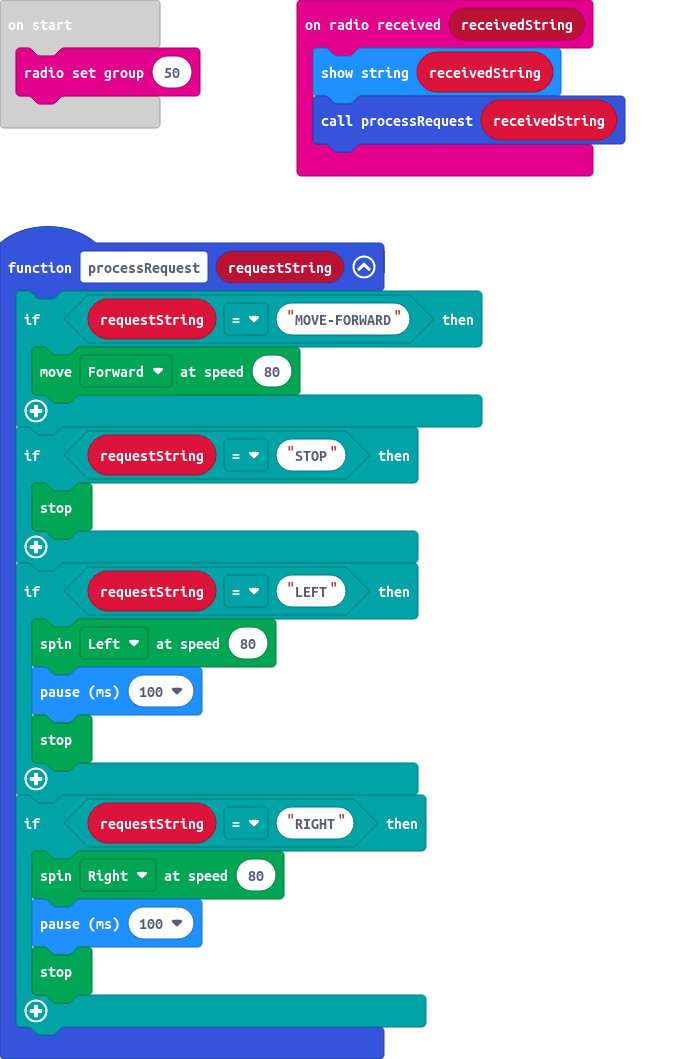
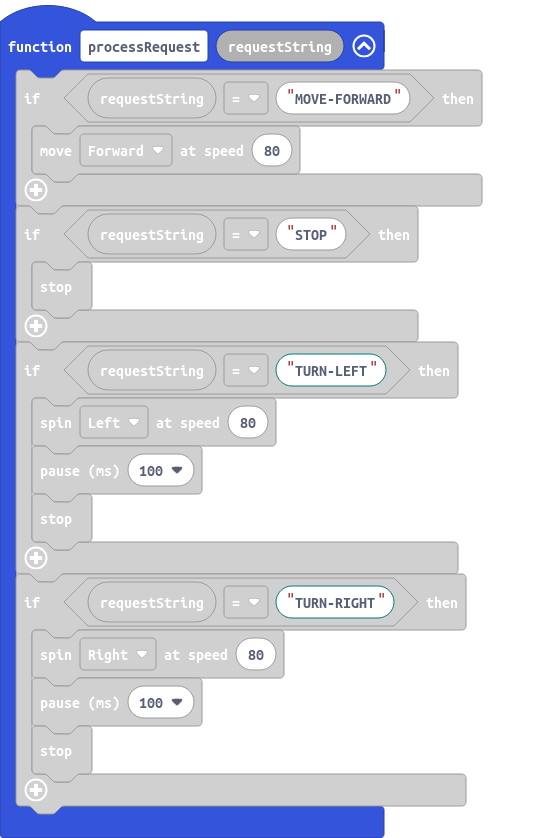
Updated move commands

diff --git a/main.ts b/main.ts
@@ -5,12 +5,12 @@ function processRequest (requestString: string) {
     if (requestString == "STOP") {
         Kitronik_Move_Motor.stop()
     }
-    if (requestString == "LEFT") {
+    if (requestString == "TURN-LEFT") {
         Kitronik_Move_Motor.spin(Kitronik_Move_Motor.SpinDirections.Left, 80)
         basic.pause(100)
         Kitronik_Move_Motor.stop()
     }
-    if (requestString == "RIGHT") {
+    if (requestString == "TURN-RIGHT") {
         Kitronik_Move_Motor.spin(Kitronik_Move_Motor.SpinDirections.Right, 80)
         basic.pause(100)
         Kitronik_Move_Motor.stop()
